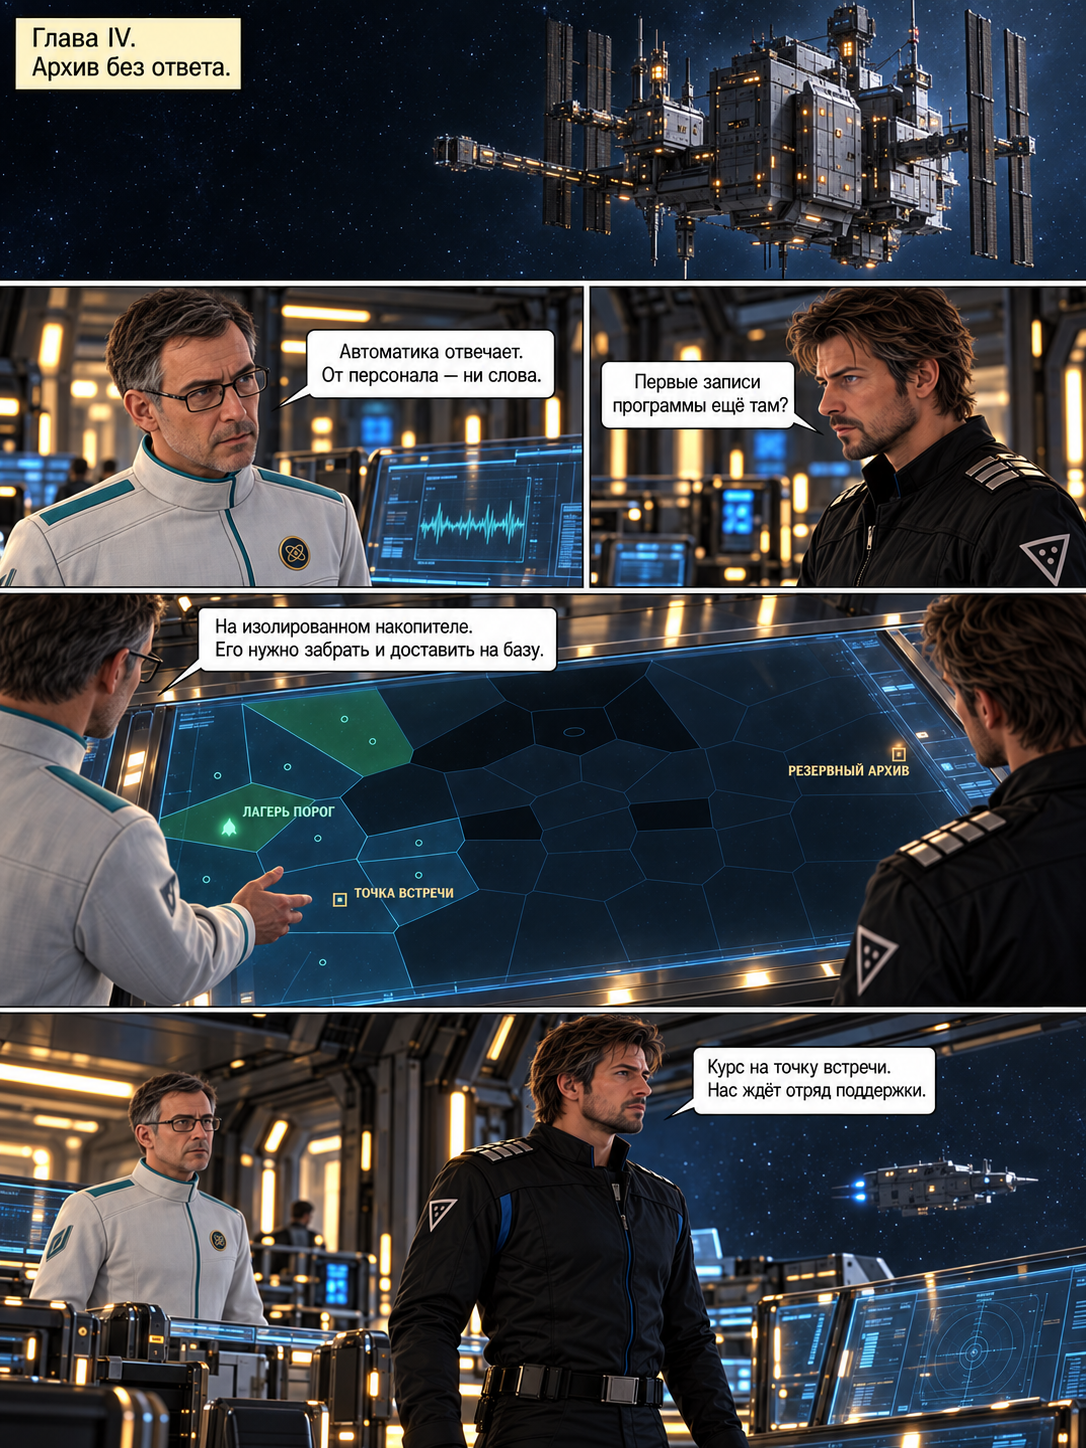
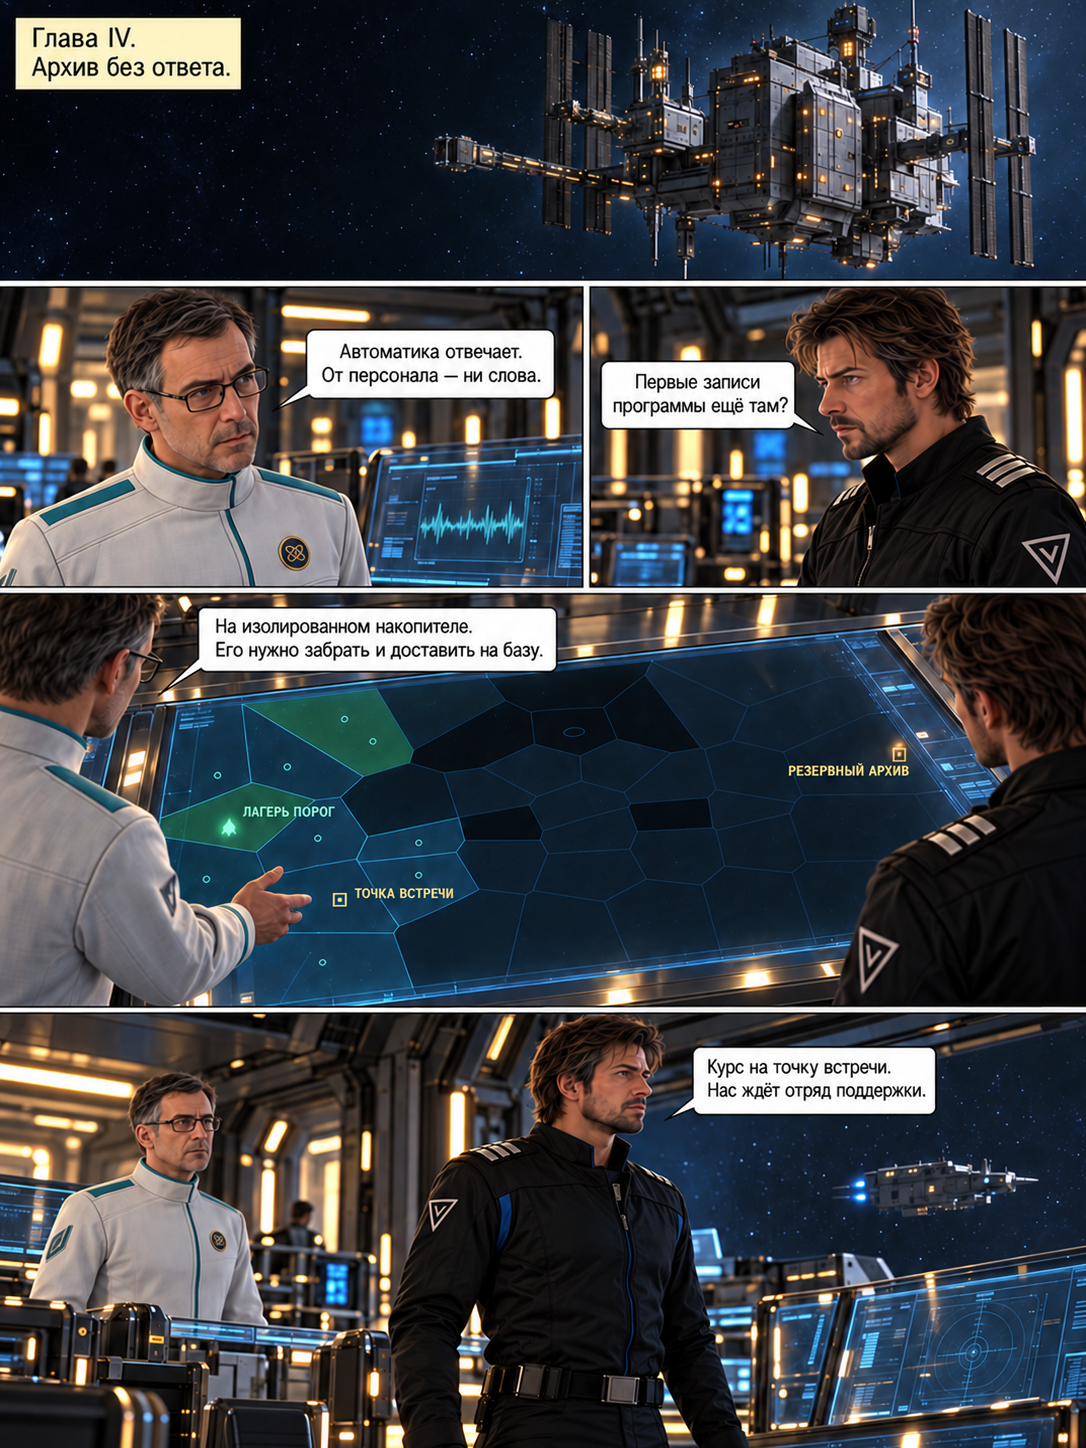
art: unify officer insignia across Chapter IV comic panels

diff --git a/art/comics/sector-zero/README.md b/art/comics/sector-zero/README.md
@@ -1,6 +1,6 @@
 # Averion: Sector Zero — страницы комикса
 
-Пять утверждённых страниц на русском языке, в порядке сюжета. Сохранены исходные PNG без изменения изображения и качества.
+Пять страниц на русском языке, в порядке сюжета. Сохранены финальные PNG в исходном разрешении без перекодирования.
 
 | № | Страница | Сцена |
 | --- | --- | --- |
@@ -11,5 +11,13 @@
 | 05 | [Глава IV: точка встречи](05-chapter-four-allied-contact-ru.png) | Встреча с прикомандированным офицером, рукопожатие, установление связи и обмен разведданными. Страница после выполнения `chain.contact`. Утверждённая версия с исправленными первым и последним кадрами. |
 
 На учебной странице убрана надпись «Принять». Страница спасения содержит пять кадров: после реплики «Доложите обстановку» сразу показан отлёт кораблей. Кадра «Научный корабль на связи» нет.
+
+На страницах 04–05 исправлена согласованность погон и нашивок между кадрами. Эталон формы для дальнейших страниц:
+
+- Главный офицер носит чёрную форму без дополнительного нагрудного значка.
+- На каждом погоне — ровно три одинаковые параллельные серебристые прямоугольные планки с равными промежутками.
+- На верхней части каждого рукава — тёмная нашивка с тонким серебристым контуром перевёрнутого треугольника и одним вложенным V-образным шевроном; без точек внутри.
+- У прикомандированного офицера сохраняются синяя отделка формы и погон, три серебристые планки и та же эмблема подразделения.
+- Ракурс, складки ткани и освещение меняют видимость деталей, но не их количество, рисунок или место на форме.
 
 Это отдельная папка исходных страниц. Подключение изображений к игровому проигрывателю и событиям миссий в этот PR не входит. Существующий формат игровых панелей описан в [руководстве по комиксам](../../../prototype/art/comics/README.md).
